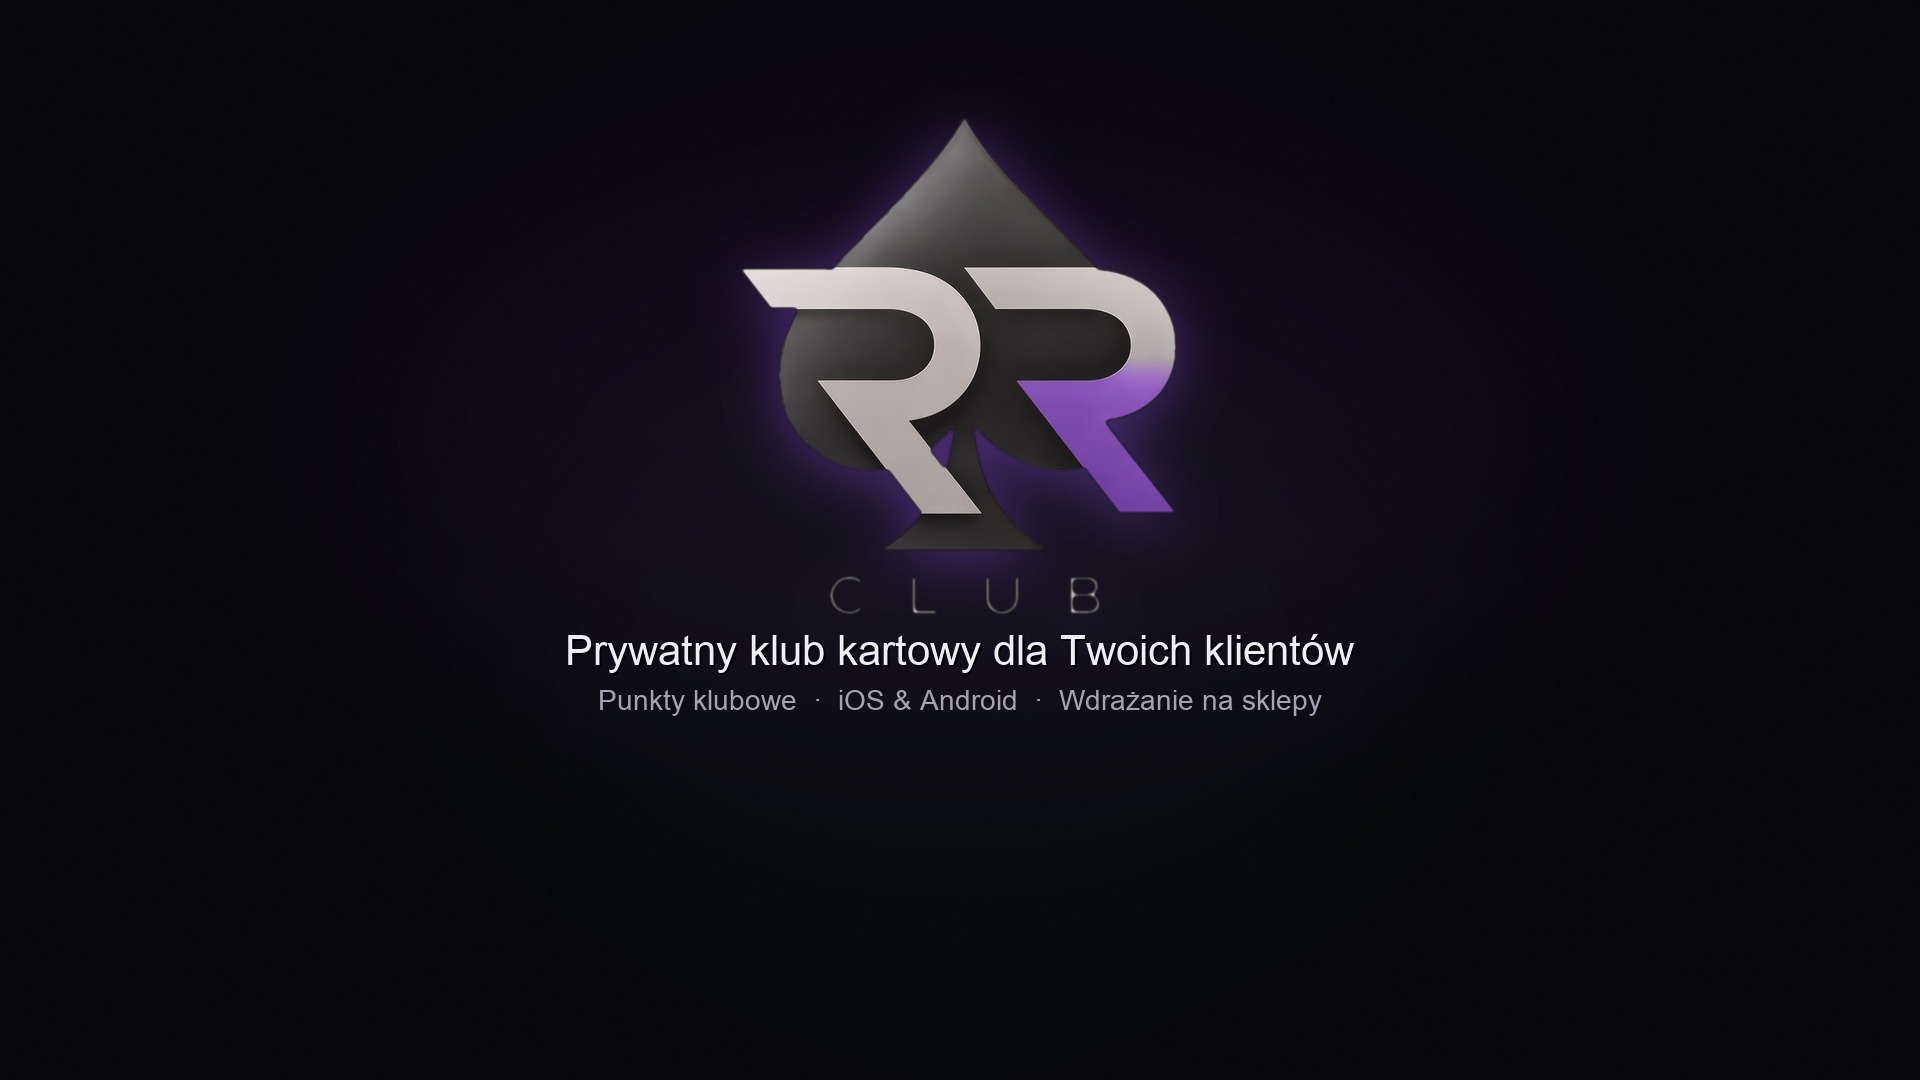
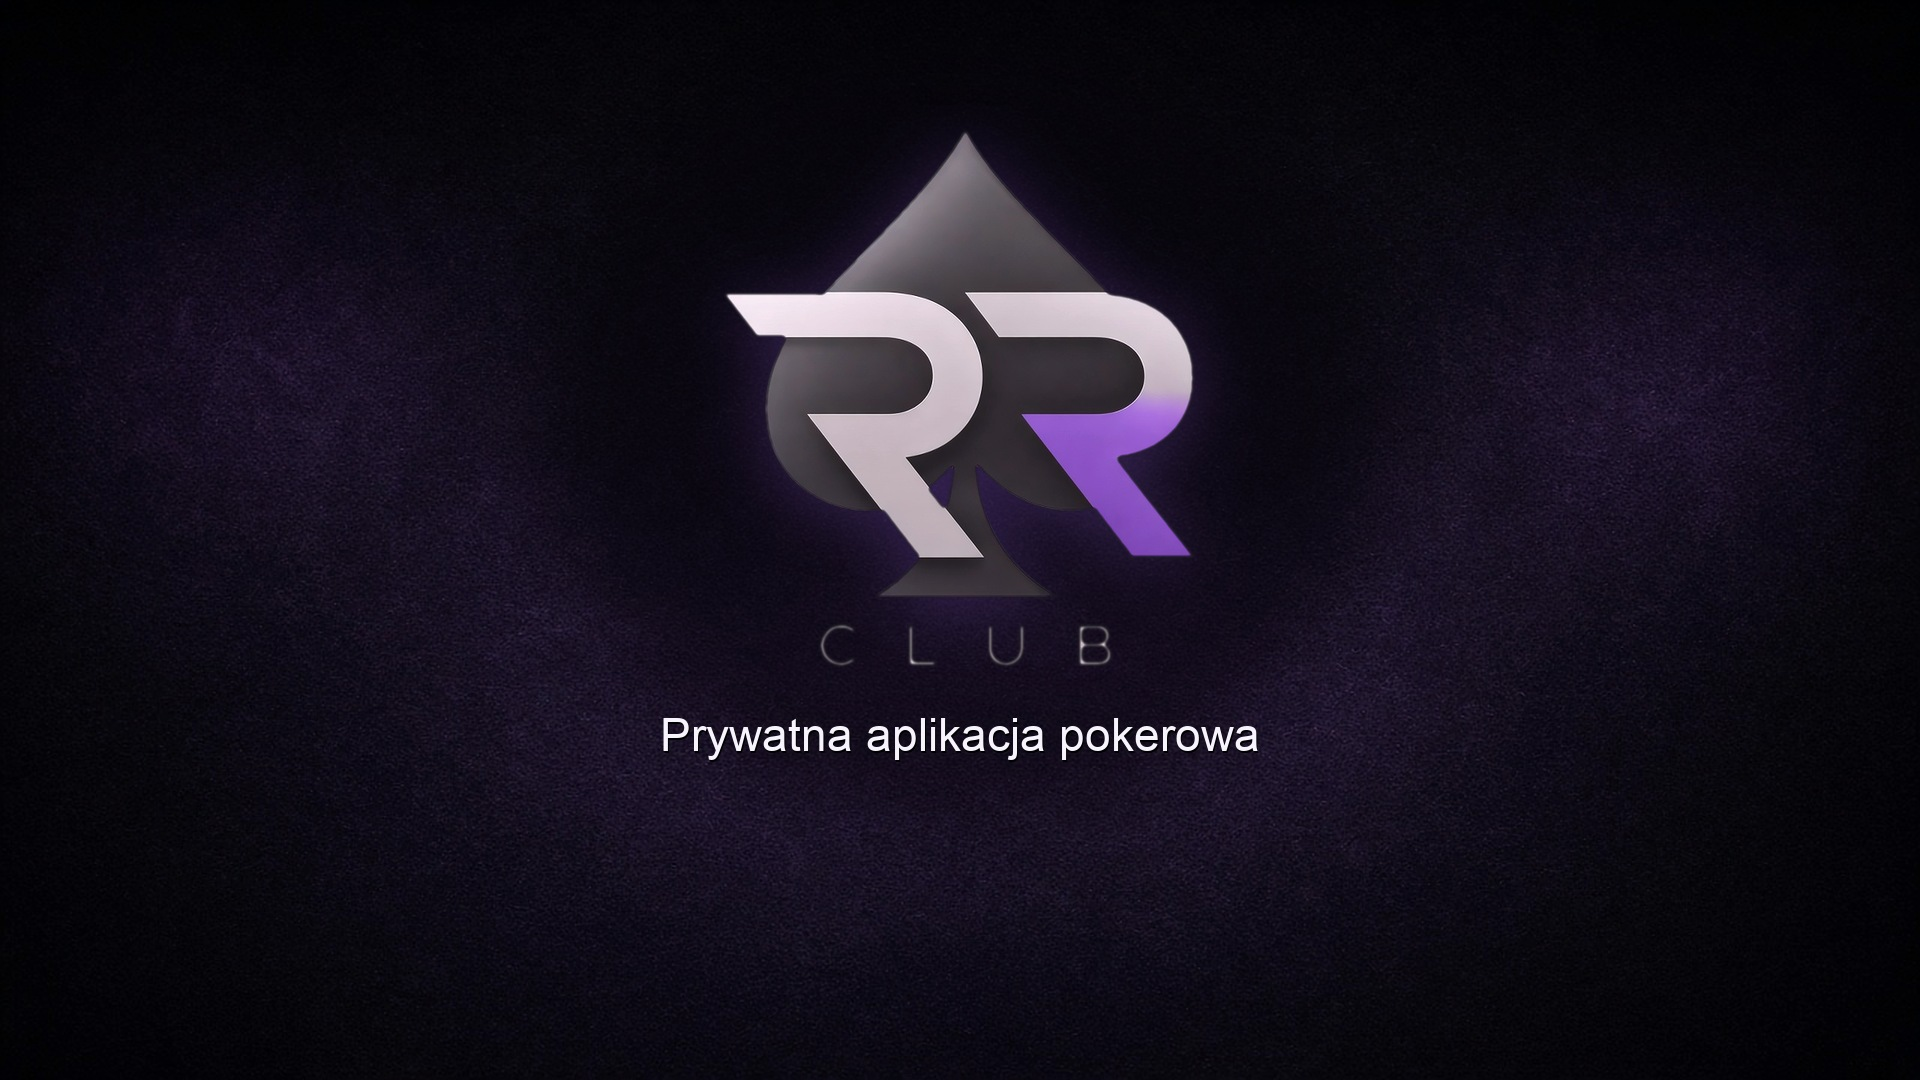
Replace RRclub tile art with cleaner AI backdrop and poker tagline.

diff --git a/src/data/site.ts b/src/data/site.ts
@@ -66,7 +66,7 @@ export const projects: Project[] = [
   {
     slug: "rrclub",
     title: "RRclub",
-    kind: "Aplikacja iOS & Android · w trakcie wdrażania",
+    kind: "Prywatna aplikacja pokerowa",
     year: "2026",
     tone: "dark",
     gradient: "linear-gradient(155deg, #1a1028 0%, #2a1840 40%, #050505 100%)",
